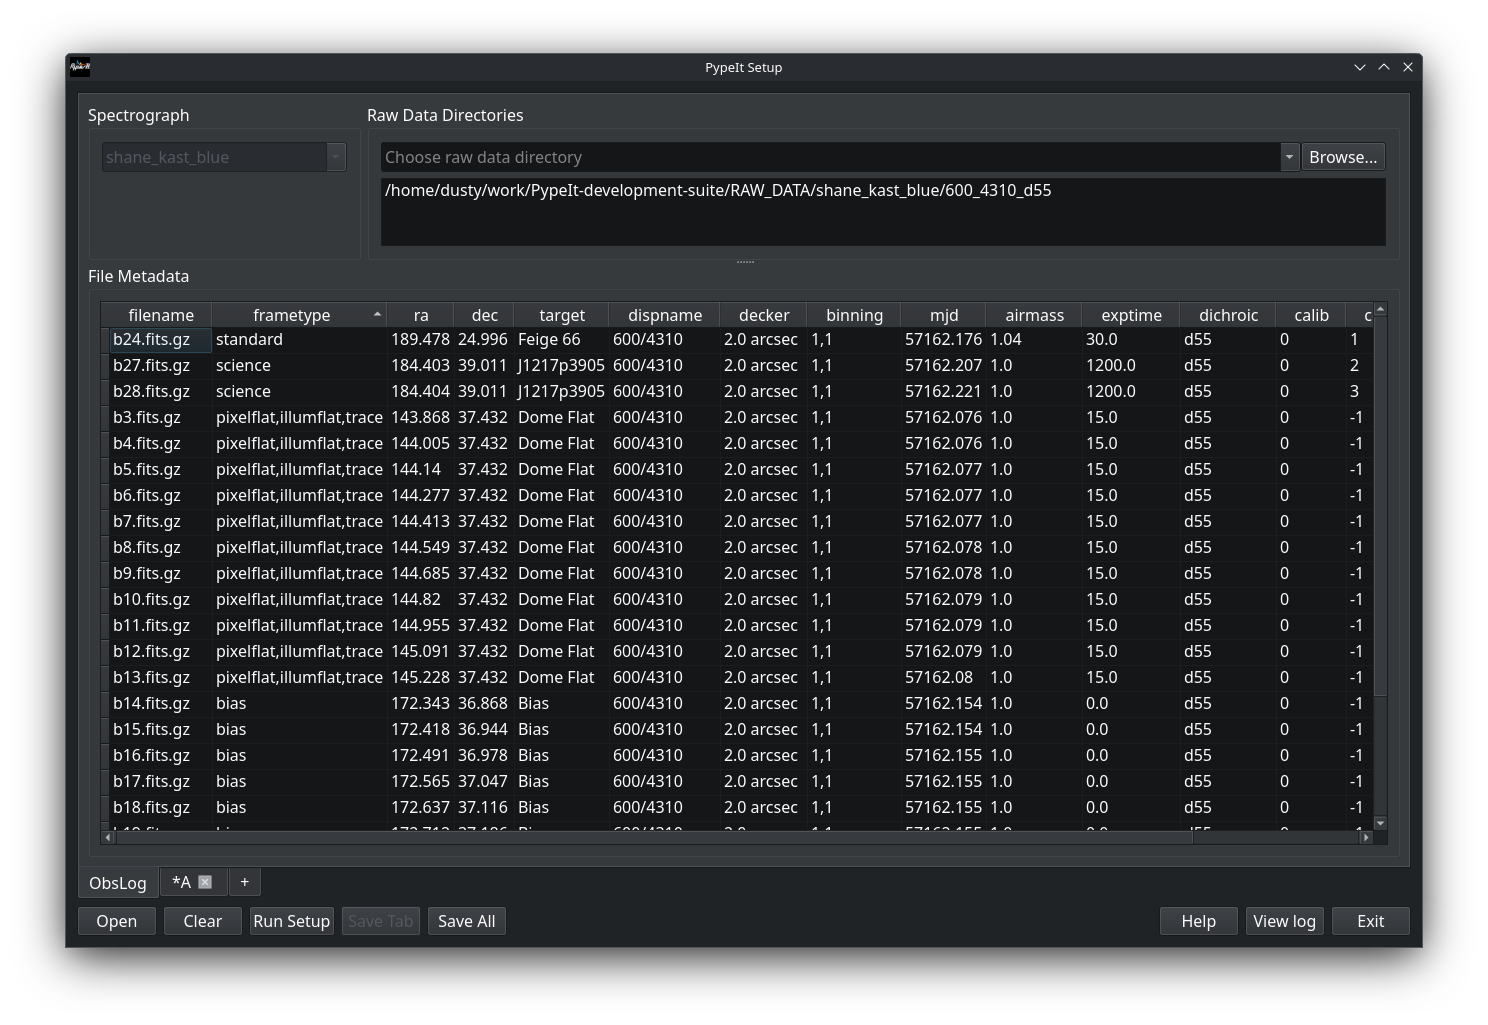
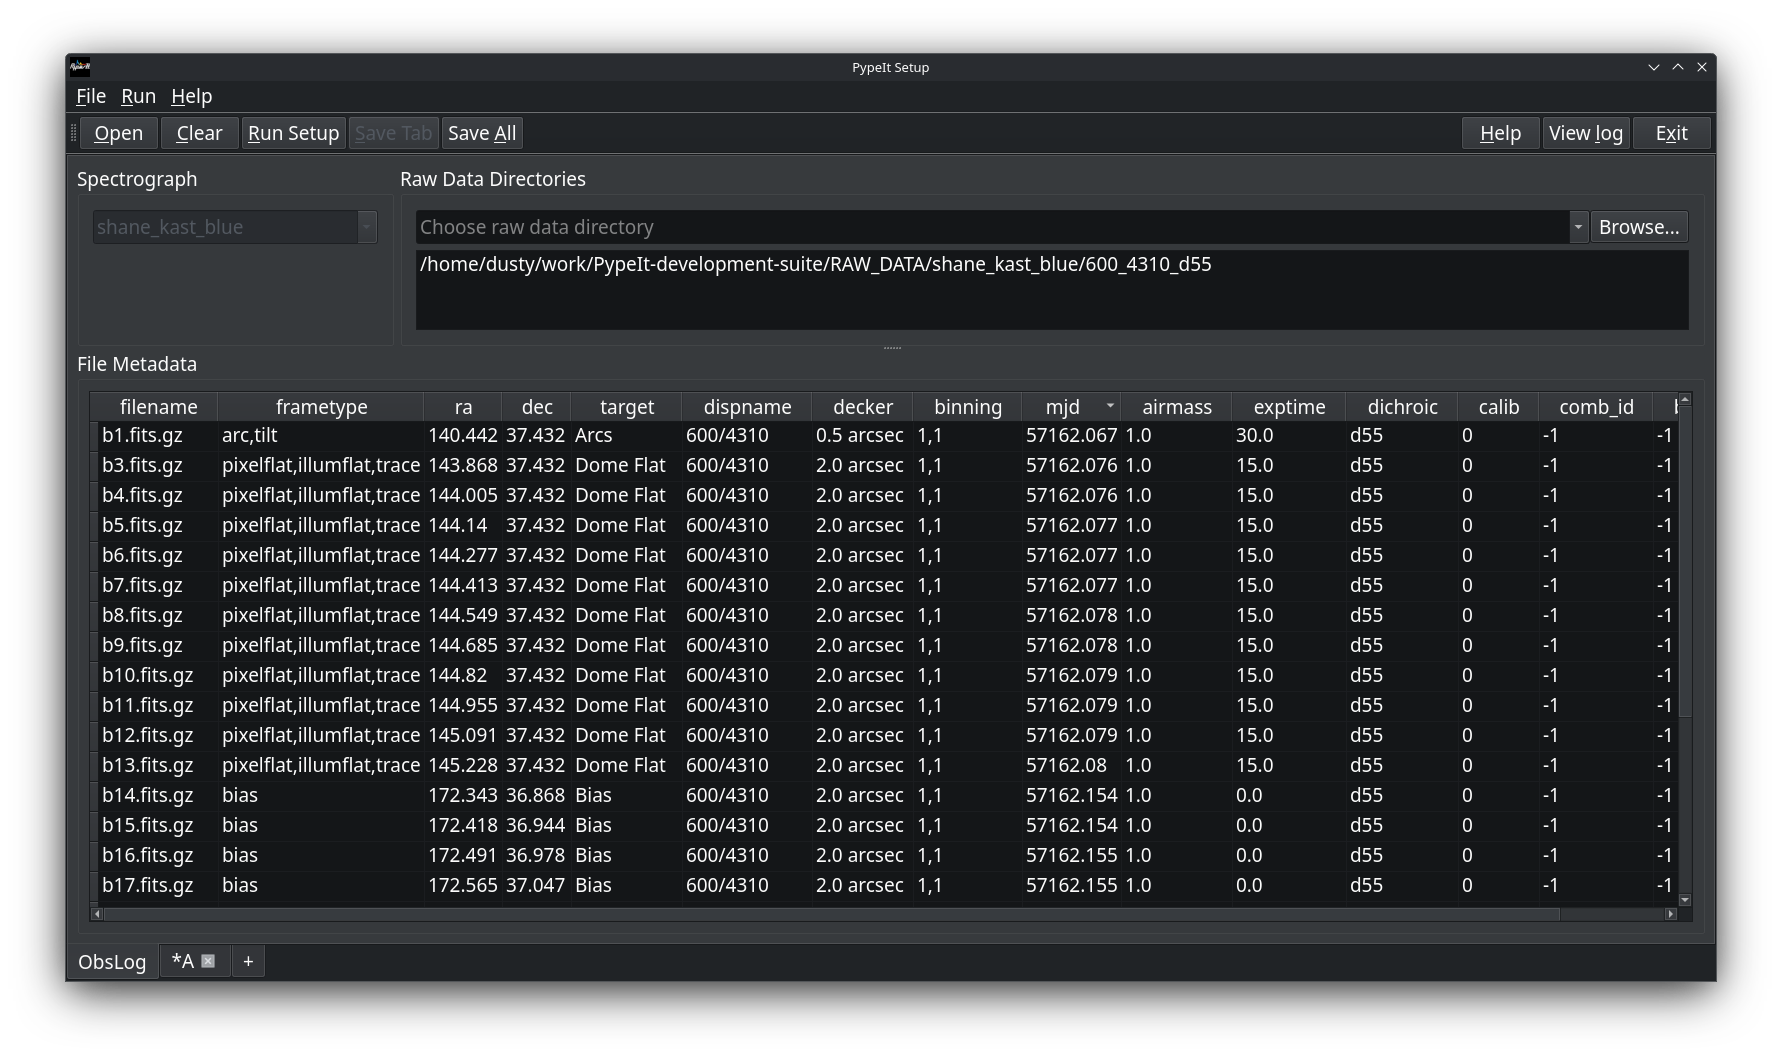
Setup GUI: Cleanup comments, update Setup GUI docs, release docs.

diff --git a/pypeit/setup_gui/controller.py b/pypeit/setup_gui/controller.py
@@ -41,6 +41,10 @@ def lock_qt_mutex(mutex):
         mutex.unlock()
 
 class OpCanceledError(BaseException):
+    """Exception thrown to cancel a background operation.
+    This inherits from BaseException instead of Exception so that it isn't caught by
+    the python logging framework.
+    """
     pass
 
 class OperationThread(QThread):
@@ -158,9 +162,11 @@ class MetadataOperation(QObject):
 
     def preRun(self):
         """
-        Perform setup required before running the operation. This involves watching the log
-        for files being added to the metadata.
+        Perform setup required before running the operation. 
         """
+        # Setup our _background_progress callback to called for every log message.
+        # We use this to hook into the background thread without having to change
+        # any pre-existing PypeIt code.
         self._model.log_buffer.watch("background_progress", None, self._background_progress)
         self._model.closeAllFiles()
         return True
@@ -687,10 +693,9 @@ class SetupGUIController(QObject):
 
         # QT runs it's event loop in C, so the python signal handling mechanism
         # is never called, or it's only called after you give focus to the
-        # window. To make Ctrl+C handling work immediately in a way that still 
-        # calls the PypeIt CTRL+C handler, we set a timer to run every 500ms in the
-        # python interpreter, which will allow the python signal handling
-        # code to it.
+        # window. To make Ctrl+C handling work immediately we set a timer to run 
+        # every 500ms in the python interpreter, which will allow the python 
+        # signal handling to call the below signal handler.
         def signal_handler(signalnum, handler):
             """
             Handle signals sent by the keyboard during code execution

diff --git a/pypeit/setup_gui/view.py b/pypeit/setup_gui/view.py
@@ -1449,6 +1449,8 @@ class SetupGUIMainWindow(QMainWindow):
         controller (:class:`pypeit.setup_gui.controller.SetupGUIController`): The controller for the PypeitSetupGUI.
     """
 
+    helpURL = QUrl("https://pypeit.readthedocs.io/en/latest/tutorials/setup_gui.html")
+
     def __init__(self, model, controller):
         super().__init__(parent=None)
 
@@ -1475,7 +1477,7 @@ class SetupGUIMainWindow(QMainWindow):
         # Monitor the current tab
         self._current_tab = self._obs_log_tab
 
-        self._tool_bar = self.addToolBar("Where is my title showed?")
+        self._tool_bar = self.addToolBar("")
         self._tool_bar.setFloatable(False)
         self._tool_bar.setAllowedAreas(Qt.TopToolBarArea | Qt.BottomToolBarArea)
         self._populate_toolbar_and_menu()
@@ -1598,11 +1600,11 @@ class SetupGUIMainWindow(QMainWindow):
     def _helpButton(self):
         """Signal handler that responds to the help button being pressed."""
 
-        result = QDesktopServices.openUrl(QUrl("https://pypeit.readthedocs.io/en/latest/"))
+        result = QDesktopServices.openUrl(self.helpURL)
         if result:
             log.info("Opened PypeIT docs.")
         else:
-            log.warning("Failed to open PypeIt docs at 'https://pypeit.readthedocs.io/en/latest/'")
+            log.warning(f"Failed to open PypeIt docs at '{self.helpURL}'")
 
     def _populate_toolbar_and_menu(self):
         """Populate the tool bar and menu bar by creating actions for the functionality accessible from the main window."""

diff --git a/doc/releases/2.1.0dev.rst b/doc/releases/2.1.0dev.rst
@@ -11,6 +11,7 @@ Documentation Updates
 - Updated the documentation about the use of the mask design file for Gemini/GMOS.
   See the :ref:`gemini_gmos` documentation for details.
 
+- Updated the Setup GUI tutorial to reflect the new look of the GUI.
 
 Dependency Changes
 ------------------
@@ -18,7 +19,9 @@ Dependency Changes
 
 Functionality/Performance Improvements and Additions
 ----------------------------------------------------
-
+- Setup GUI now uses a standard button bar that can be moved. 
+- Re-enabled the Cancel button on the Setup GUI progress dialog.
+- Increased default size for Setup GUI.
 
 Instrument-specific Updates
 ---------------------------

diff --git a/doc/include/keck_deimos.sorted.rst b/doc/include/keck_deimos.sorted.rst
@@ -16,11 +16,11 @@
     DE.20170527.06790.fits | pixelflat,illumflat,trace |  57.99999999999999 |               45.0 | DOME PHLAT |     830G | LongMirr |     1,1 |  57900.07851 | 1.41291034 |     4.0 | 8099.98291016 | SINGLE:B |   OG550 |          Qz | 2017-05-27 | 01:53:10.93 |      31 |     0
     DE.20170527.06864.fits | pixelflat,illumflat,trace |  57.99999999999999 |               45.0 | DOME PHLAT |     830G | LongMirr |     1,1 | 57900.079356 | 1.41291034 |     4.0 | 8099.98291016 | SINGLE:B |   OG550 |          Qz | 2017-05-27 | 01:54:24.03 |      32 |     0
         d0527_0032.fits.gz | pixelflat,illumflat,trace |  57.99999999999999 |               45.0 | DOME PHLAT |     830G | LongMirr |     1,1 | 57900.079356 | 1.41291034 |     4.0 | 8099.98291016 | SINGLE:B |   OG550 |          Qz | 2017-05-27 | 01:54:24.03 |      32 |     0
-        d0527_0033.fits.gz | pixelflat,illumflat,trace |  57.99999999999999 |               45.0 | DOME PHLAT |     830G | LongMirr |     1,1 | 57900.080211 | 1.41291034 |     4.0 | 8099.98291016 | SINGLE:B |   OG550 |          Qz | 2017-05-27 | 01:55:36.93 |      33 |     0
     DE.20170527.06936.fits | pixelflat,illumflat,trace |  57.99999999999999 |               45.0 | DOME PHLAT |     830G | LongMirr |     1,1 | 57900.080211 | 1.41291034 |     4.0 | 8099.98291016 | SINGLE:B |   OG550 |          Qz | 2017-05-27 | 01:55:36.93 |      33 |     0
+        d0527_0033.fits.gz | pixelflat,illumflat,trace |  57.99999999999999 |               45.0 | DOME PHLAT |     830G | LongMirr |     1,1 | 57900.080211 | 1.41291034 |     4.0 | 8099.98291016 | SINGLE:B |   OG550 |          Qz | 2017-05-27 | 01:55:36.93 |      33 |     0
     DE.20170527.37601.fits |                   science |  261.0363749999999 | 19.028166666666667 |   P261_OFF |     830G | LongMirr |     1,1 | 57900.435131 | 1.03078874 |  1200.0 | 8099.98291016 | SINGLE:B |   OG550 |         Off | 2017-05-27 | 10:26:41.61 |      80 |     0
-        d0527_0081.fits.gz |                   science |  261.0363749999999 | 19.028166666666667 |   P261_OFF |     830G | LongMirr |     1,1 | 57900.449842 | 1.01267696 |  1200.0 | 8099.98291016 | SINGLE:B |   OG550 |         Off | 2017-05-27 | 10:47:52.92 |      81 |     0
     DE.20170527.38872.fits |                   science |  261.0363749999999 | 19.028166666666667 |   P261_OFF |     830G | LongMirr |     1,1 | 57900.449842 | 1.01267696 |  1200.0 | 8099.98291016 | SINGLE:B |   OG550 |         Off | 2017-05-27 | 10:47:52.92 |      81 |     0
+        d0527_0081.fits.gz |                   science |  261.0363749999999 | 19.028166666666667 |   P261_OFF |     830G | LongMirr |     1,1 | 57900.449842 | 1.01267696 |  1200.0 | 8099.98291016 | SINGLE:B |   OG550 |         Off | 2017-05-27 | 10:47:52.92 |      81 |     0
     DE.20170527.41775.fits |                   science |  261.0362916666666 | 19.028888888888886 |   P261_OFF |     830G | LongMirr |     1,1 | 57900.483427 | 1.00093023 |  1200.0 | 8099.98291016 | SINGLE:B |   OG550 |         Off | 2017-05-27 | 11:36:15.35 |      83 |     0
         d0527_0083.fits.gz |                   science |  261.0362916666666 | 19.028888888888886 |   P261_OFF |     830G | LongMirr |     1,1 | 57900.483427 | 1.00093023 |  1200.0 | 8099.98291016 | SINGLE:B |   OG550 |         Off | 2017-05-27 | 11:36:15.35 |      83 |     0
     DE.20170527.43045.fits |                   science |  261.0362916666666 | 19.028888888888886 |   P261_OFF |     830G | LongMirr |     1,1 | 57900.498135 | 1.00838805 |  1200.0 | 8099.98291016 | SINGLE:B |   OG550 |         Off | 2017-05-27 | 11:57:25.35 |      84 |     0

diff --git a/doc/tutorials/setup_gui.rst b/doc/tutorials/setup_gui.rst
@@ -55,14 +55,14 @@ The Setup GUI window consists of several main components:
 Main Window Components
 ----------------------
 
-1. **Button Bar** (bottom of window)
+1. **Button Bar** (top of window)
    
    - **Open**: Open an existing `.pypeit` file
    - **Clear**: Clear everything and start fresh
    - **Run Setup**: Scan raw data directories and generate observation log and .pypeit files for each setup.
    - **Save Tab**: Save the currently active tab
    - **Save All**: Save all tabs with unsaved changes
-   - **Help**: Opens PypeIt online documentation
+   - **Help**: Opens PypeIt Setup GUI tutorial
    - **View log**: Opens a window showing the application log
    - **Exit**: Quit the application
 

diff --git a/doc/help/run_pypeit.rst b/doc/help/run_pypeit.rst
@@ -6,7 +6,7 @@
                       pypeit_file
     
     PypeIt: The Python Spectroscopic Data Reduction Pipeline
-    Version 2.0.1.dev45+g1d735d64c
+    Version 2.0.1.dev90+g75b24ce55.d20260306
     
     Available spectrographs include:
         aat_uhrf, apf_levy, bok_bc, gemini_flamingos1, gemini_flamingos2,